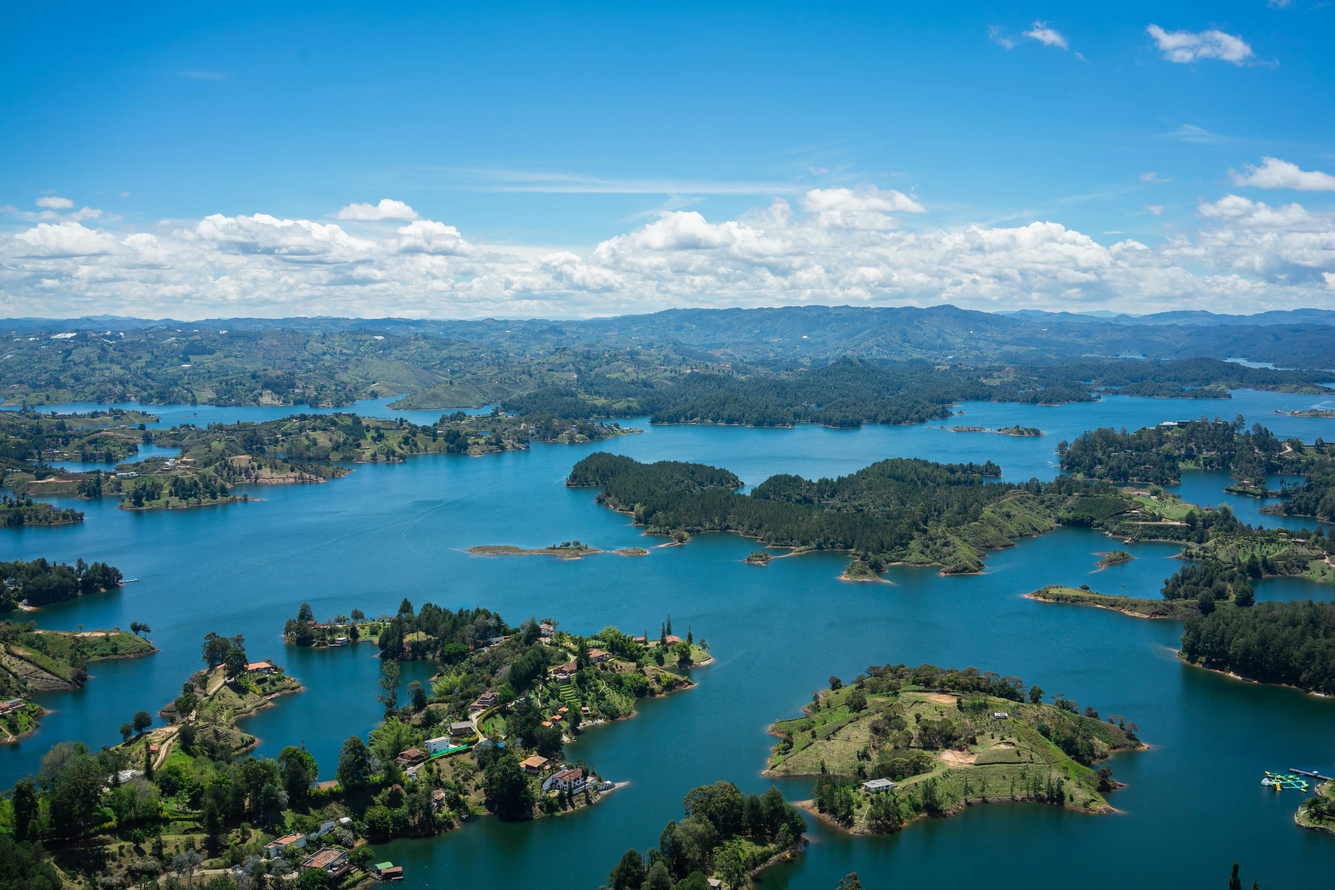
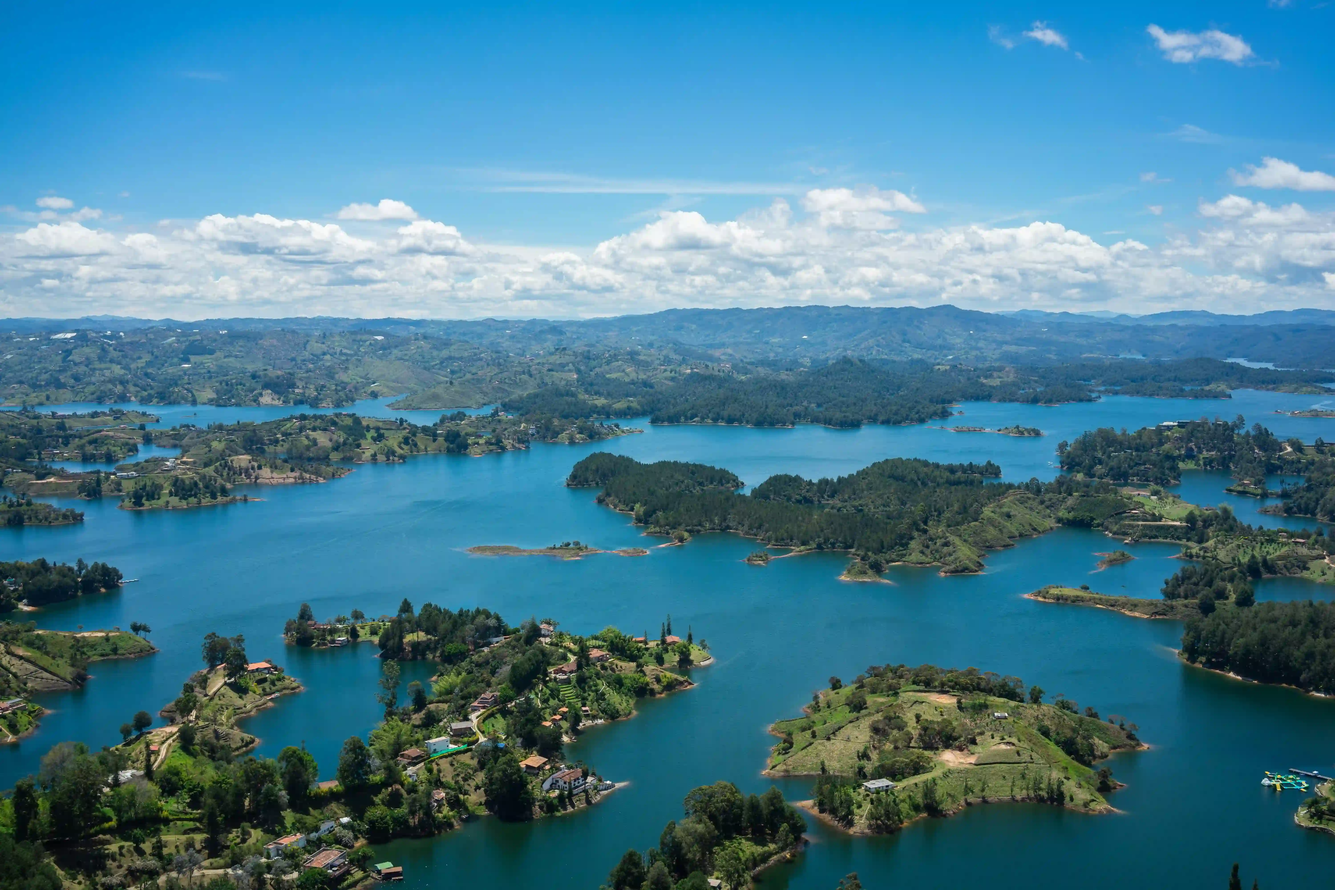
#

diff --git a/destinos.css b/destinos.css
@@ -167,62 +167,6 @@ figcaption {
 
 
 /* Responsive básico */
-@media (max-width: 768px) {
-    #Descubre_viaje, #Destinos_populares, #ofertas-especiales, #Titulo-calificaciones {
-        font-size: 48px;
-    }
-
-    .Imagenes-container {
-        flex-direction: column;
-        align-items: center;
-        gap: 20px;
-    }
-
-    .destino-img {
-        width: 90%;
-        height: auto;
-    }
-
-    .calificacion {
-        flex: 1 1 100%;
-        max-width: 90%;
-    }
-
-    nav {
-        flex-direction: column;
-        gap: 20px;
-        margin-left: 0;
-        align-items: center;
-    }
-
-    .busqueda-container {
-        gap: 15px;
-        margin-top: 40px;
-    }
-
-    #barra_busqueda_destinos, #botón_buscar_destinos {
-        width: 100%;
-        max-width: 400px;
-    }
-}
-
-@media (max-width: 480px) {
-    #Descubre_viaje, #Destinos_populares, #ofertas-especiales, #Titulo-calificaciones {
-        font-size: 36px;
-    }
-
-    figcaption {
-        font-size: 18px;
-    }
-
-    .calificaciones {
-        padding: 10px;
-    }
-
-    .calificacion {
-        font-size: 15px;
-    }
-}
 @media (max-width: 1024px) {
     nav {
         margin-left: 0;
@@ -243,5 +187,98 @@ figcaption {
 
     .Imagenes-container {
         flex-wrap: wrap;
+    }
+
+    .destino-img {
+        width: 90%;
+        max-width: 300px;
+        height: auto;
+    }
+
+    figcaption {
+        font-size: 20px;
+    }
+
+    .calificaciones {
+        flex-direction: column;
+        align-items: center;
+        gap: 20px;
+    }
+
+    .calificacion {
+        flex: none;
+        width: 90%;
+        max-width: 400px;
+    }
+}
+
+@media (max-width: 768px) {
+    #Descubre_viaje,
+    #Destinos_populares,
+    #ofertas-especiales,
+    #Titulo-calificaciones {
+        font-size: 48px;
+    }
+
+    nav {
+        font-size: 28px;
+        gap: 20px;
+    }
+
+    a {
+        font-size: 24px;
+    }
+
+    .barra_busqueda_boton {
+        gap: 10px;
+    }
+
+    #barra_busqueda_destinos,
+    #botón_buscar_destinos {
+        font-size: 16px;
+    }
+
+    figcaption {
+        font-size: 18px;
+    }
+}
+
+@media (max-width: 480px) {
+    #Descubre_viaje,
+    #Destinos_populares,
+    #ofertas-especiales,
+    #Titulo-calificaciones {
+        font-size: 36px;
+    }
+
+    nav {
+        font-size: 20px;
+        gap: 10px;
+    }
+
+    a {
+        font-size: 18px;
+    }
+
+    .barra_busqueda_boton {
+        gap: 5px;
+    }
+
+    #barra_busqueda_destinos,
+    #botón_buscar_destinos {
+        font-size: 14px;
+    }
+
+    .destino-img {
+        width: 100%;
+        max-width: 250px;
+    }
+
+    figcaption {
+        font-size: 16px;
+    }
+
+    .calificacion {
+        width: 100%;
     }
 }

diff --git a/destinos.html b/destinos.html
@@ -51,7 +51,7 @@
 
             <div class="Imagenes-container">
                 <figure>
-                    <img src="/img/Francia.jpg" alt="Imagen del arco del triunfo como representación de Francia" class="destino-img" loading="lazy" />
+                    <img src="/img/Francia.webp" alt="Imagen del arco del triunfo como representación de Francia" class="destino-img" loading="lazy" />
                     <figcaption>Francia</figcaption>
                 </figure>
 
@@ -66,7 +66,7 @@
                 </figure>
 
                 <figure>
-                    <img src="/img/USA.jpg" alt="Imagen de la estatua de la libertad como representación de Estados Unidos" loading="lazy" class="destino-img" />
+                    <img src="/img/USA.webp" alt="Imagen de la estatua de la libertad como representación de Estados Unidos" loading="lazy" class="destino-img" />
                     <figcaption>USA</figcaption>
                 </figure>
             </div>
